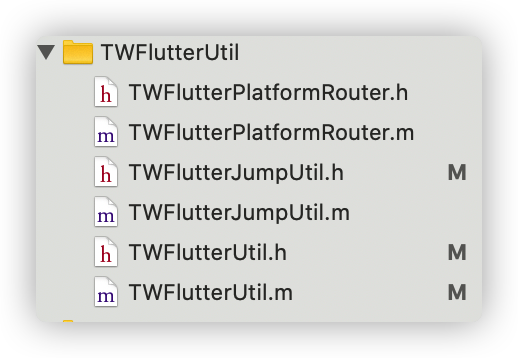
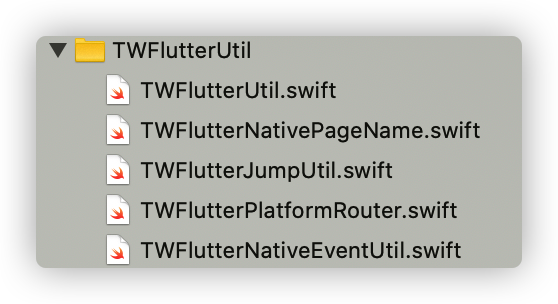
+++ 更新文档内容

diff --git a/source/_posts/初尝-Flutter-与-Native-混合开发-FlutterBoost-应用.md b/source/_posts/初尝-Flutter-与-Native-混合开发-FlutterBoost-应用.md
@@ -9,10 +9,10 @@ tags:
 
 
 ## 前言
-> 在跨平台开发中 `Flutter` 优势很明简单总结 : <br>
+> 在跨平台开发中 `Flutter` 优势很明显，简单总结 : <br>
 > 1. 接近原生的性能  
 > 2. 热重载  
-> 3. 丰富的组件。<br>
+> 3. 丰富的组件<br>
 > 考虑项目有大量原生业务，我们也不可能基于 Flutter 重构所有的业务。<br>因此只能在原有的基础上混合使用 Flutter 来开发新业务或重构旧业务。<br>参考闲鱼，哈罗等，他们也提供相应的解决混合开发方案 [flutter_boost](https://github.com/alibaba/flutter_boost) 和 [flutter_thrio](https://github.com/hellobike/flutter_thrio)。 <br>目前我们采用 flutter_boost 作为我们 tw591 项目的解决方案。
 
 ## Flutter 混编现有项目
@@ -66,150 +66,115 @@ end
 
 > - TWFlutterUtil 单例类用来注册 flutter 引擎，同时封装一层调用，避免 FlutterBoostPlugin 直接调用
 > - TWFlutterPlatformRouter 基于 Flutter_boost DEMO 提供的基础上，根据我们项目业务做了调整，主要是 flutter 与 Native 平台交互的 Router
-> - TWFlutterJumpUtil 主要是处理 Flutter 与 Native 相互跳转间的业务逻辑
-
+> - TWFlutterJumpUtil 主要是处理 Flutter 与 Native 相互路由跳转间的业务逻辑
+> - TWFlutterNativePageName 定义页面路由名称
+> - TWFlutterNativeEventUtil 主要是处理 Flutter 与 Native 事件的业务逻辑
 
 ### 示例 TWFlutterUtil 部分
-> `TWFlutterUtil.h`	
+> `TWFlutterUtil.swift`	
 
-```objc
-@interface TWFlutterUtil : NSObject
-
-+ (instancetype)shareInstance;
-
-/// 注册 flutter 引擎
-- (void)registerFlutter;
-
-#pragma mark - open/close Page
-
-/**
- * 关闭页面，混合栈推荐使用的用于操作页面的接口
- *
- * @param uniqueId 关闭的页面唯一ID符
- * @param resultData 页面要返回的结果（给上一个页面），会作为页面返回函数的回调参数
- * @param exts 额外参数
- * @param completion 关闭页面的即时回调，页面一旦关闭即回调
- */
-+ (void)close:(NSString *)uniqueId
-       result:(NSDictionary *)resultData
-         exts:(NSDictionary *)exts
-   completion:(void (^)(BOOL))completion;
-
-/**
- * 打开新页面（默认以push方式），混合栈推荐使用的用于操作页面的接口；通过urlParams可以设置为以present方式打开页面：urlParams:@{@"present":@(YES)}
- *
- * @param url 打开的页面资源定位符
- * @param urlParams 传人页面的参数; 若有特殊逻辑，可以通过这个参数设置回调的id
- * @param exts 额外参数
- * @param resultCallback 当页面结束返回时执行的回调，通过这个回调可以取得页面的返回数据，如close函数传入的resultData
- * @param completion 打开页面的即时回调，页面一旦打开即回调
- */
-+ (void)open:(NSString *)url
-   urlParams:(NSDictionary *)urlParams
-        exts:(NSDictionary *)exts
-       onPageFinished:(void (^)(NSDictionary *))resultCallback
-  completion:(void (^)(BOOL))completion;
-
-/**
- * Present方式打开新页面，混合栈推荐使用的用于操作页面的接口
- *
- * @param url 打开的页面资源定位符
- * @param urlParams 传人页面的参数; 若有特殊逻辑，可以通过这个参数设置回调的id
- * @param exts 额外参数
- * @param resultCallback 当页面结束返回时执行的回调，通过这个回调可以取得页面的返回数据，如close函数传入的resultData
- * @param completion 打开页面的即时回调，页面一旦打开即回调
- */
-+ (void)present:(NSString *)url
-      urlParams:(NSDictionary *)urlParams
-           exts:(NSDictionary *)exts
- onPageFinished:(void (^)(NSDictionary *))resultCallback
-     completion:(void (^)(BOOL))completion;
-
-@end
-
-```
-
-> `TWFlutterUtil.m`	
-
-```objc
-#import "TWFlutterUtil.h"
-#import <flutter_boost/FlutterBoost.h>
-#import "TWFlutterPlatformRouter.h"
-
-@interface TWFlutterUtil ()
-
-@property (nonatomic, strong) FlutterEngine *engine;
-/// flutter 模块路由
-@property (nonatomic, strong) TWFlutterPlatformRouter *router;
-@end
-
-@implementation TWFlutterUtil
-
-+ (instancetype)shareInstance{
-    static dispatch_once_t once;
-    static TWFlutterUtil*singleton;
-    dispatch_once(&once, ^ {
-        singleton = [[TWFlutterUtil alloc] init];
-    });
-    return singleton;
-}
-
-- (void)registerFlutter {
-    WS(weakSelf);
-    TWFlutterPlatformRouter *router = [[TWFlutterPlatformRouter alloc]init];
-    self.router = router;
+```swift
+import UIKit
+import flutter_boost
+@objcMembers class TWFlutterUtil: NSObject {
     
-    [FlutterBoostPlugin.sharedInstance startFlutterWithPlatform:router
-                                                        onStart:^(FlutterEngine *engine) {
-            weakSelf.engine = engine;
-    // 注册MethodChannel，监听flutter侧的getPlatformVersion调用
-    }];
+    static let shareInstance = TWFlutterUtil()
+    var router: TWFlutterPlatformRouter?
+    var engine: FlutterEngine?
+    
+    /// 注册 flutter 引擎
+    func registerFlutter() {
+        router = TWFlutterPlatformRouter()
+        guard let router = router else {return}
+        FlutterBoostPlugin.sharedInstance().startFlutter(with: router) {[weak self](engine) in
+            self?.engine = engine
+            HouseTool.dispatch(afterTime: 2.0) {
+                TWFlutterNativeEventUtil.sendConfigureInfo()
+            }
+        }
+    }
+    
+    // MARK: - sendEvent
+    
+    /**
+     * Native层往Dart层发送事件，事件名称通过eventName指定
+     *
+     * @param eventName 事件名称
+     * @param arguments 参数
+     */
+    open class func sendEvent(_ eventName: String, arguments: [AnyHashable: Any]) {
+        FlutterBoostPlugin.sharedInstance().sendEvent(eventName, arguments: arguments)
+    }
+    
+    /**
+    * 添加监听Dart层调用Native层的事件
+    *
+    * @param name 事件名称
+    * @param listner 事件监听器
+    */
+    open class func addEventListener(_ listener: @escaping FLBEventListener, name: String) -> FLBVoidCallback {
+        return FlutterBoostPlugin.sharedInstance().addEventListener(listener, forName: name)
+    }
+    
+    // MARK: - open/close Page
+    
+    /**
+     * 关闭页面，混合栈推荐使用的用于操作页面的接口
+     *
+     * @param uniqueId 关闭的页面唯一ID符
+     * @param resultData 页面要返回的结果（给上一个页面），会作为页面返回函数的回调参数
+     * @param exts 额外参数
+     * @param completion 注意必传 关闭页面的即时回调，页面一旦关闭即回调
+     */
+    open class func close(_ uniqueId: String, result resultData: [AnyHashable: Any], exts: [AnyHashable: Any], completion: @escaping (Bool) -> Void) {
+        FlutterBoostPlugin.close(uniqueId, result: resultData, exts: exts, completion: completion)
+    }
+    
+    /**
+     * 打开新页面（默认以push方式），混合栈推荐使用的用于操作页面的接口；通过urlParams可以设置为以present方式打开页面：urlParams:@{@"present":@(YES)}
+     *
+     * @param url 打开的页面资源定位符
+     * @param urlParams 传入页面的参数; 若有特殊逻辑，可以通过这个参数设置回调的id
+     * @param exts 额外参数
+     * @param resultCallback 当页面结束返回时执行的回调，通过这个回调可以取得页面的返回数据，如close函数传入的resultData
+     * @param completion 注意必传 打开页面的即时回调，页面一旦打开即回调
+     */
+    open class func open(_ url: String, urlParams: [AnyHashable: Any], exts: [AnyHashable: Any], onPageFinished resultCallback: @escaping ([AnyHashable: Any]) -> Void, completion: @escaping (Bool) -> Void) {
+        FlutterBoostPlugin.open(url, urlParams: urlParams, exts: exts, onPageFinished: resultCallback, completion: completion)
+    }
+    
+    /**
+     * Present方式打开新页面，混合栈推荐使用的用于操作页面的接口
+     *
+     * @param url 打开的页面资源定位符
+     * @param urlParams 传入页面的参数; 若有特殊逻辑，可以通过这个参数设置回调的id
+     * @param exts 额外参数
+     * @param resultCallback 当页面结束返回时执行的回调，通过这个回调可以取得页面的返回数据，如close函数传入的resultData
+     * @param completion 注意必传 打开页面的即时回调，页面一旦打开即回调
+     */
+    open class func present(_ url: String, urlParams: [AnyHashable: Any], exts: [AnyHashable: Any], onPageFinished resultCallback: @escaping ([AnyHashable: Any]) -> Void, completion: @escaping (Bool) -> Void) {
+        FlutterBoostPlugin.present(url, urlParams: urlParams, exts: exts, onPageFinished: resultCallback, completion: completion)
+    }
+    
 }
-
-#pragma mark - open/close Page
-+ (void)close:(NSString *)uniqueId
-       result:(NSDictionary *)resultData
-         exts:(NSDictionary *)exts
-   completion:(void (^)(BOOL))completion{
-    [FlutterBoostPlugin close:uniqueId result:resultData exts:exts completion:completion];
-}
-
-+ (void)open:(NSString *)url
-   urlParams:(NSDictionary *)urlParams
-        exts:(NSDictionary *)exts
-     onPageFinished:(void (^)(NSDictionary *))resultCallback
-  completion:(void (^)(BOOL))completion{
-    [FlutterBoostPlugin open:url urlParams:urlParams exts:exts onPageFinished:resultCallback completion:completion];
-}
-
-+ (void)present:(NSString *)url
-      urlParams:(NSDictionary *)urlParams
-           exts:(NSDictionary *)exts
- onPageFinished:(void (^)(NSDictionary *))resultCallback
-     completion:(void (^)(BOOL))completion{
-    [FlutterBoostPlugin present:url urlParams:urlParams exts:exts onPageFinished:resultCallback completion:completion];
-}
-
-@end
 ```
 
 ### Native 打开 Flutter 页面
 
 > 页面采用文件 `page` `页面类名`，作为注册 id
 
-```objc
+```swift
 //在 iOS 中 TWFlutterUtil 打开更多页面
-[TWFlutterUtil open:@"TWMorePage"
-              urlParams:@{@"isDebug":API_DEBUG == 1 ? @"1" : @"0",
-                                                    @"isDark":IS_DARK ? @"1" : @"0"}
-                   exts:@{@"isHideNavigationBar":@"1",
-                          @"title":@"更多"}
-         onPageFinished:^(NSDictionary * result) {
-        
-    } completion:nil];
+TWFlutterUtil.open("TWMorePage",
+                           urlParams: ["isDebug":API_DEBUG == 1 ? "1" : "0"],
+                           exts: ["isHideNavigationBar":"1"],
+                           onPageFinished: { (result) in
+        }) { (finish) in
+        }
     
-
 ```
+
+
 
 ## Flutter 部分
 
@@ -339,7 +304,7 @@ class TWRouterBoost extends NavigatorObserver{
 
 ## 优秀的第三方库
 
-> 为了减少与原生桥接，尽量让 Android 和 iOS 能公用一套，那么接下来要做的是一些基础设置建设了。包括 网络库，状态管理，图片缓存，数据缓存等...
+> 为了减少与原生桥接，尽量让 Android 和 iOS 能公用一套，那么接下来要做的是一些基础设施建设了。包括 网络库，状态管理，图片缓存，数据缓存等...
 
 | 分类          | 地址           | star           |
 | -------------- | -------------- | -------------- |
